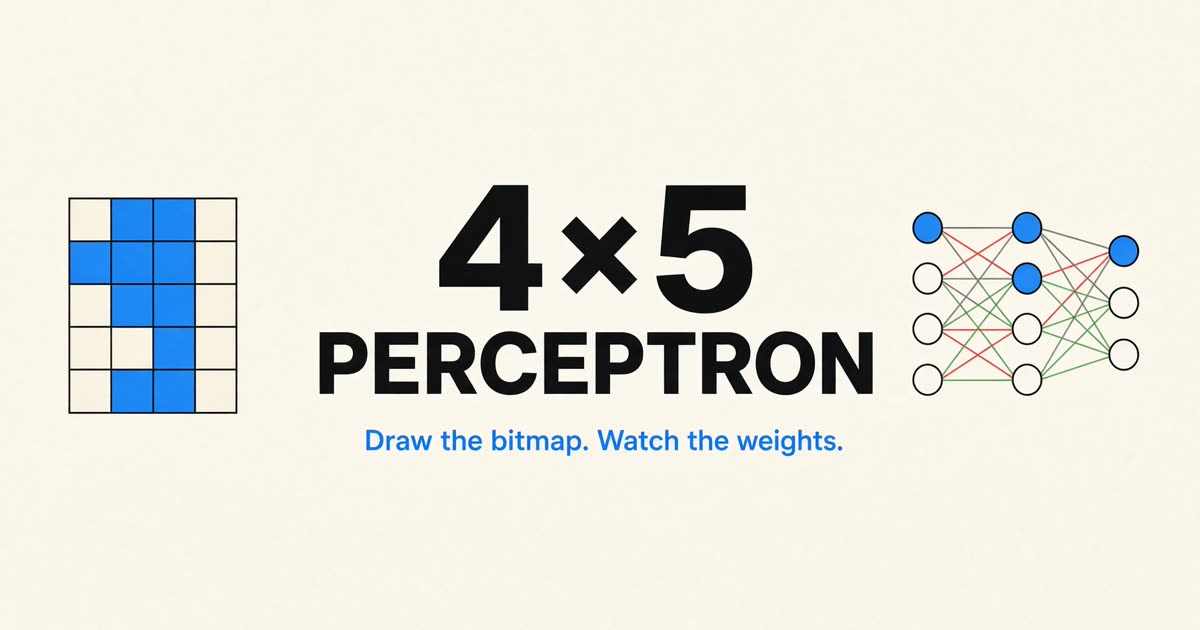
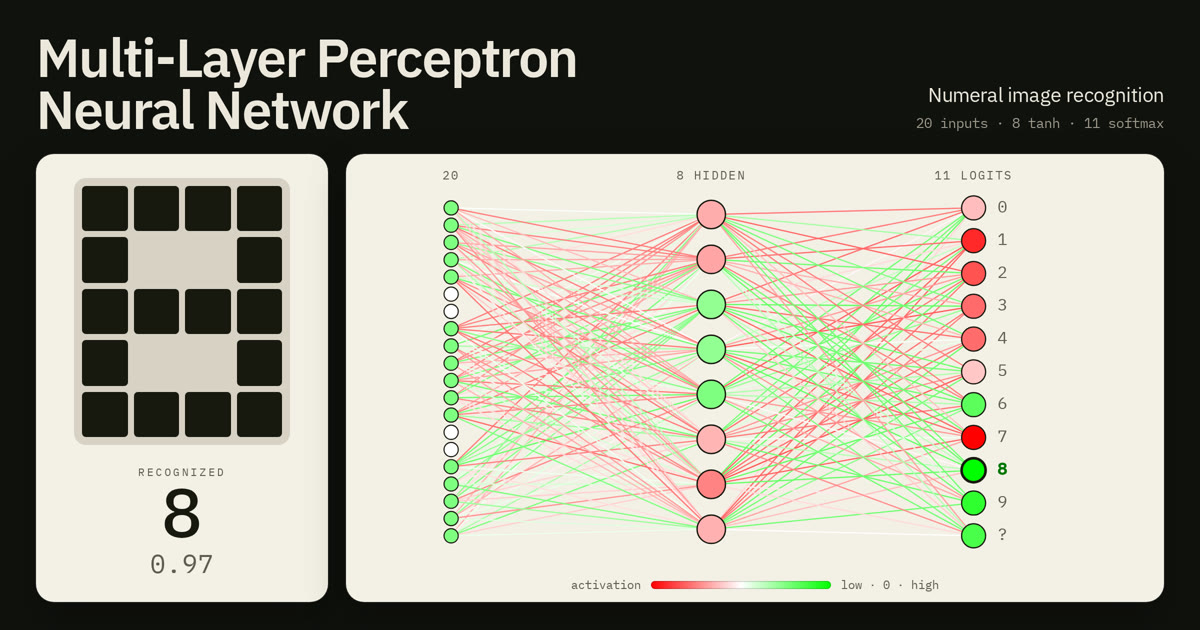
Add a 1200×630 share card and full og: and twitter: tags.
The card shows the prototype eight the network recognizes at 0.97. Unfurls use https://mlp-demo.vercel.app/og.jpg.

diff --git a/src/routes/__root.tsx b/src/routes/__root.tsx
@@ -13,7 +13,8 @@ export const Route = createRootRoute({
       { title: APP_NAME },
       {
         name: "description",
-        content: "Draw a digit on a 4×5 grid and watch a small multilayer perceptron classify it.",
+        content:
+          "Draw a digit on a 4×5 grid. A multilayer perceptron with 20 inputs, 8 tanh hidden units, and an 11-way softmax recognizes 0–9 or ?.",
       },
       { name: "theme-color", content: "#10120e" },
     ],
